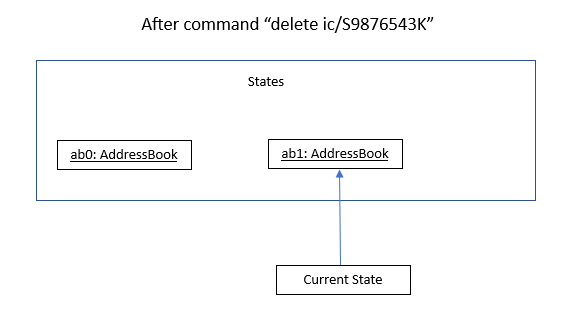
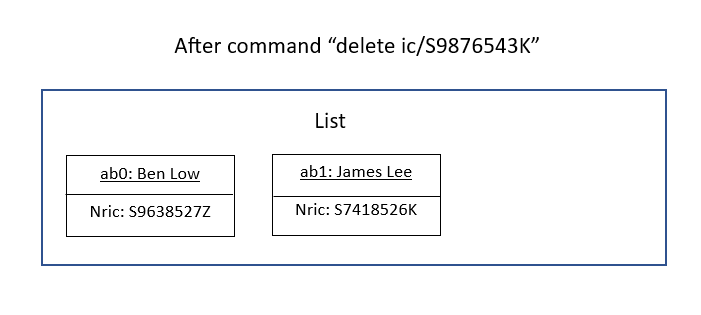
Updated the delete command features in the developer guide

Changed region(s): [[0.0306, 0.2286, 0.9796, 0.8286], [0.0612, 0.0571, 0.9184, 0.2], [0.0612, 0.8, 0.949, 0.9143]]

diff --git a/docs/DeveloperGuide.md b/docs/DeveloperGuide.md
@@ -180,17 +180,17 @@ The delete mechanism is facilitated by `MediConnect`. It extends `MediConnect` w
 
 Given below is an example usage scenario and how the delete mechanism behaves at each step.
 
-Step 1. The user launches the application for the first time. The `MediConnect` will be initialized with the initial address book state, and the `currentStatePointer` pointing to that single address book state.
+Step 1. The user launches the application for the first time. The `MediConnect` will be initialized with the initial list state, with a sample list of names.
 
 ![deleteState0](images/deleteState0.png)
 
-Step 2. The user executes addDoctor n/David Tan … to add a new doctor. The add command also calls Model#commitAddressBook(), causing another modified address book state to be saved into the addressBookStateList.
+Step 2. The user executes addDoctor n/David … to add a new doctor. The NRIC of the doctor is also included.
 
 ![deleteState1](images/deleteState1.png)
 
 Step 3. The user now wants to delete the person, and decides to carry out the delete operation by executing the `delete` command.
 
-Step 4. The user executes `delete ic/S9876543K` command to delete the person with the `NRIC S9876543K` in the MediConnect. The `delete` command calls `Model#commitAddressBook()`, causing the modified state of the address book after the `delete ic/S9876543K` command executes to be saved in the `addressBookStateList`, and the `currentStatePointer` is shifted to the newly inserted address book state.
+Step 4. The user executes `delete ic/S9876543K` command to delete the person with the `NRIC S9876543K` in the MediConnect. The `delete` command removes the person with the corresponding `NRIC` from the current list.
 
 ![deleteState2](images/deleteState2.png)
 
